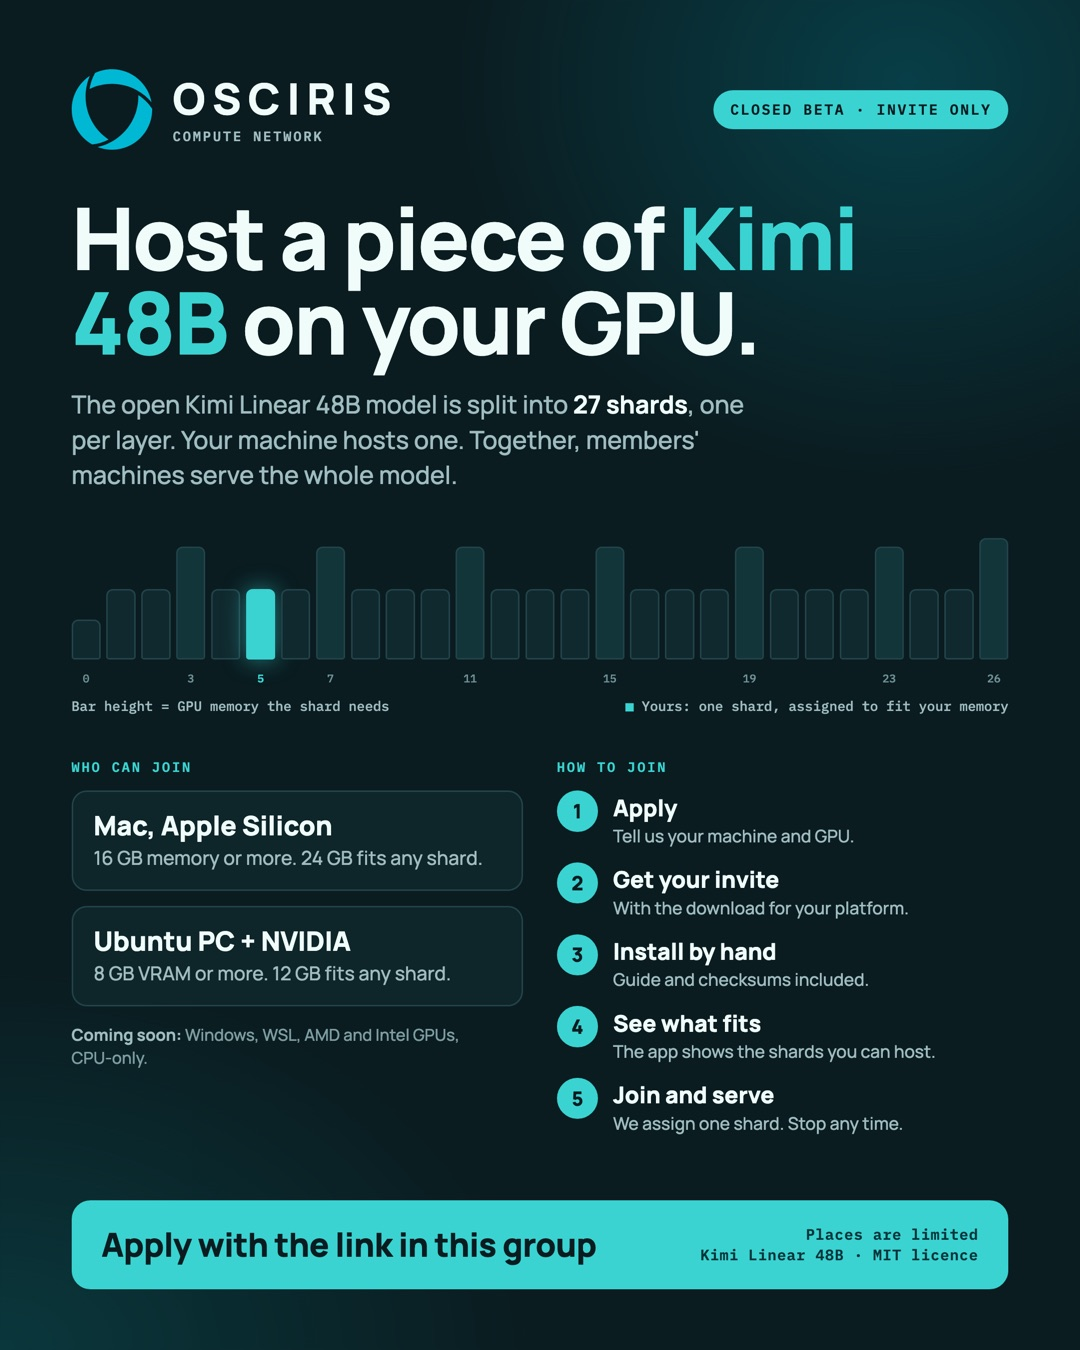
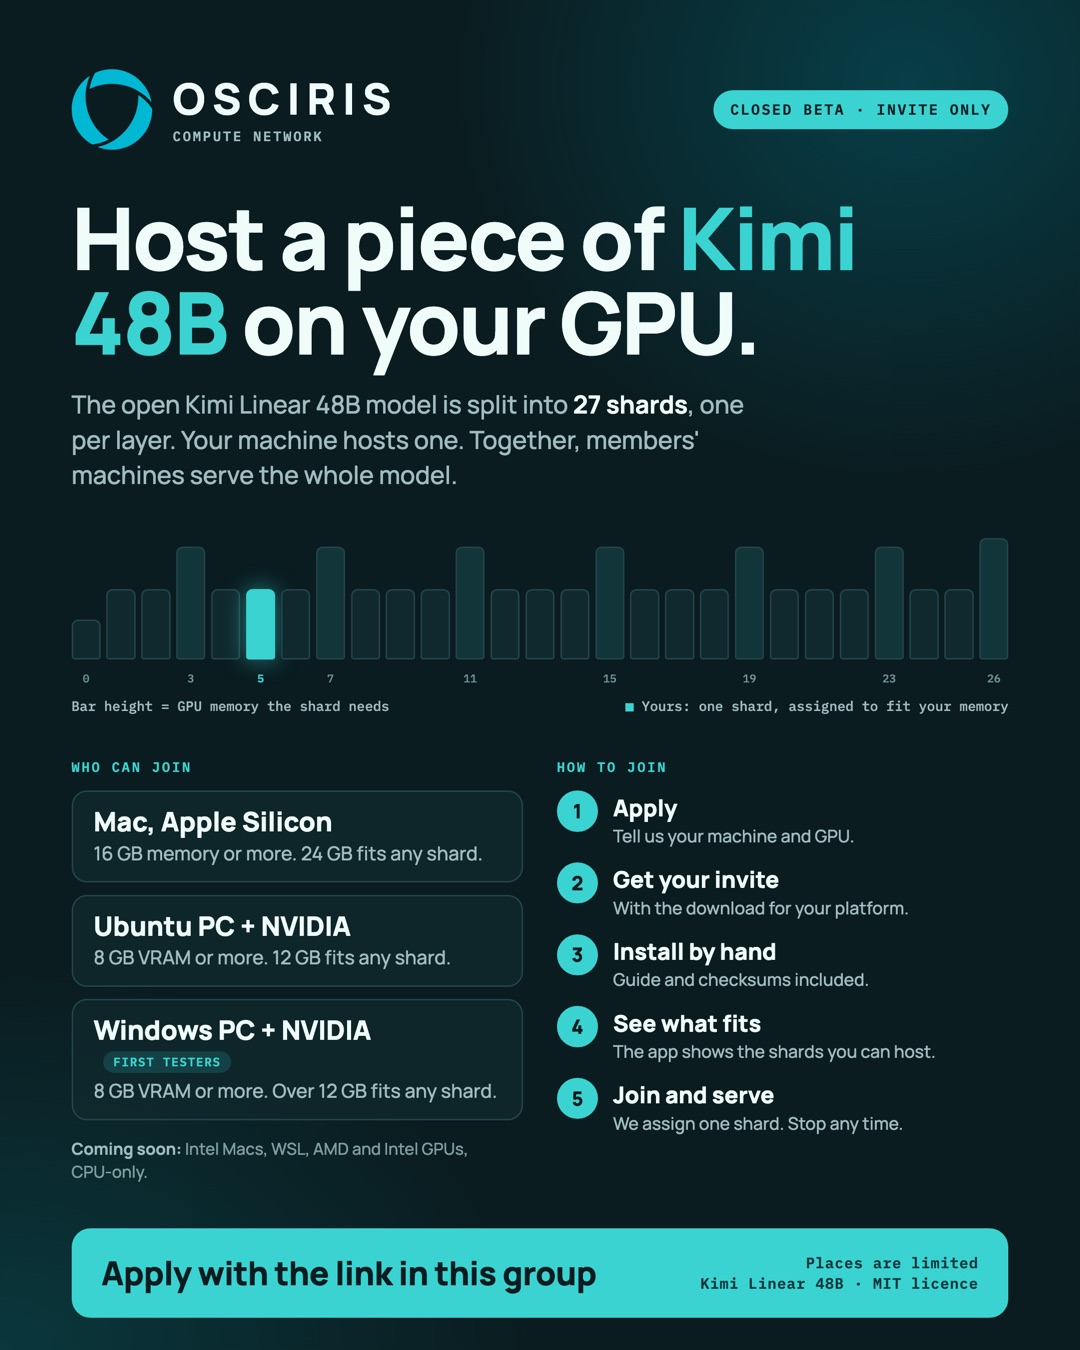
Add Windows NVIDIA (first testers) to who can join and the flier

Changed region(s): [[0.0611, 0.5911, 0.9472, 0.9956]]

diff --git a/README.md b/README.md
@@ -36,10 +36,11 @@ The open [Kimi Linear 48B](https://huggingface.co/moonshotai/Kimi-Linear-48B-A3B
 | Mac with Apple Silicon | 24 GB or more | All 27 |
 | Ubuntu PC (x86_64) with an NVIDIA GPU | 8–11 GB VRAM | 20 of 27 |
 | Ubuntu PC (x86_64) with an NVIDIA GPU | 12 GB VRAM or more | All 27 |
-| Windows PC with an NVIDIA GPU | — | Being qualified now |
+| Windows PC (x64) with an NVIDIA GPU, first testers | 8–12 GB VRAM | 20 of 27 |
+| Windows PC (x64) with an NVIDIA GPU, first testers | More than 12 GB VRAM | All 27 |
 | WSL 2, Linux ARM, Intel Mac, AMD or Intel GPU, CPU only | — | Coming soon |
 
-Each figure comes from memory measured shard by shard on Apple Metal and NVIDIA CUDA at 4,096 tokens of context. A Mac keeps 8 GB of its memory free for macOS. Each machine hosts exactly one shard.
+Each figure comes from memory measured shard by shard on Apple Metal, and on NVIDIA CUDA on Ubuntu and on Windows, at 4,096 tokens of context. A Mac keeps 8 GB of its memory free for macOS, and a Windows PC keeps 1 GB of GPU memory free for the desktop. Each machine hosts exactly one shard.
 
 ### How joining works
 
